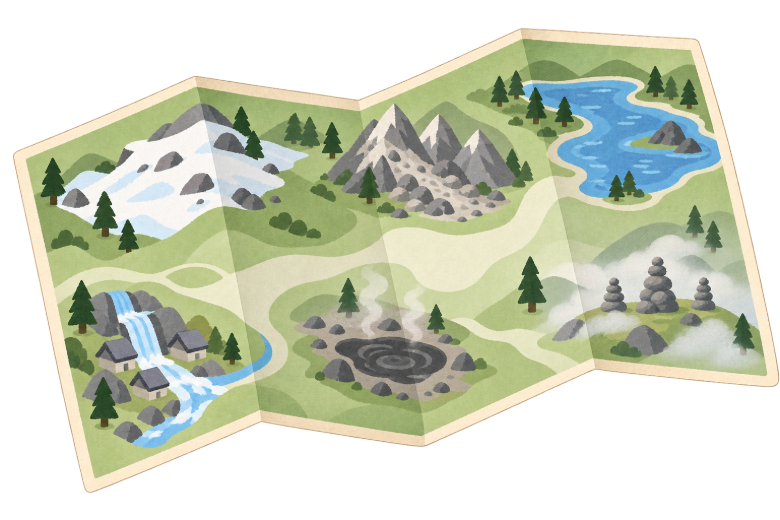
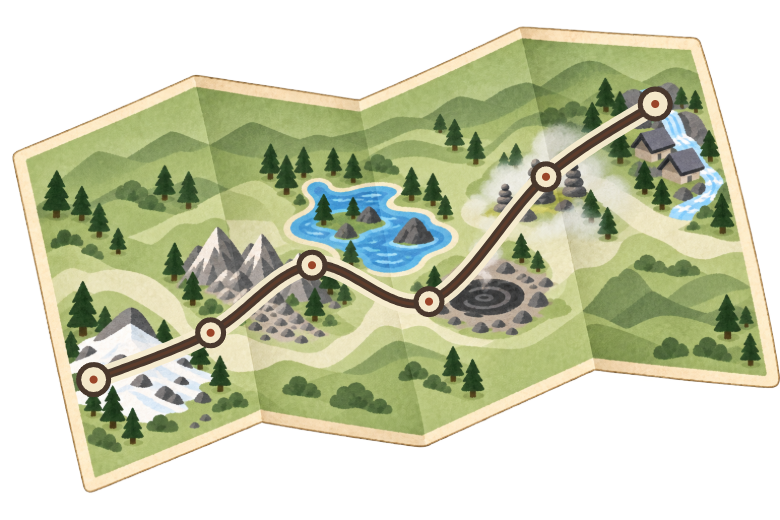
fix: bake curved POI routes into stage maps

diff --git a/src/visuals.js b/src/visuals.js
@@ -141,24 +141,12 @@ const POI=[
 function poiIndex(stage,seg){const row=POI[stage]||POI[0];return Math.max(0,Math.min((seg||1)-1,row.length-1))}
 function poiName(stage,seg){const row=POI[stage]||POI[0];return row[poiIndex(stage,seg)][0]}
 function assetImage(asset){const root=asset.startsWith('scene/')?SPRITE_ROOT:asset.startsWith('backgrounds/')?'assets/':'';return `<img class="scene-bg" src="${root+asset}" alt="">`}
-const ROUTE_SHAPES=[
- [[.08,.68],[.20,.57],[.17,.46],[.38,.40],[.45,.28],[.67,.25],[.76,.13],[.93,.06]],
- [[.08,.68],[.28,.61],[.18,.50],[.43,.45],[.34,.33],[.61,.28],[.75,.18],[.93,.06]],
- [[.08,.68],[.17,.53],[.36,.58],[.48,.43],[.43,.29],[.68,.31],[.82,.18],[.93,.06]],
- [[.08,.68],[.25,.62],[.35,.48],[.27,.36],[.53,.39],[.66,.25],[.82,.22],[.93,.06]],
- [[.08,.68],[.23,.55],[.41,.57],[.36,.43],[.58,.35],[.55,.23],[.77,.16],[.93,.06]],
- [[.08,.68],[.14,.49],[.33,.44],[.47,.52],[.59,.34],[.73,.30],[.79,.14],[.93,.06]],
- [[.08,.68],[.27,.65],[.23,.49],[.45,.52],[.57,.38],[.52,.24],[.77,.25],[.93,.06]],
- [[.08,.68],[.19,.60],[.36,.63],[.47,.45],[.63,.48],[.70,.29],[.86,.20],[.93,.06]]
-];
-function routePoint(points,t){const seg=[];let total=0;for(let i=1;i<points.length;i++){const a=points[i-1],b=points[i],len=Math.hypot(b[0]-a[0],b[1]-a[1]);seg.push(len);total+=len}let left=t*total;for(let i=0;i<seg.length;i++){if(left<=seg[i]){const q=seg[i]?left/seg[i]:0,a=points[i],b=points[i+1];return[a[0]+(b[0]-a[0])*q,a[1]+(b[1]-a[1])*q]}left-=seg[i]}return points[points.length-1]}
-function routeOverlay(stage,total,done){const c=document.createElement('canvas');c.width=780;c.height=520;const g=c.getContext('2d'),pts=ROUTE_SHAPES[stage%ROUTE_SHAPES.length];
- const xy=p=>[p[0]*c.width,p[1]*c.height],draw=(progress)=>{const p0=xy(pts[0]);g.beginPath();g.moveTo(...p0);if(progress>=1){for(let i=1;i<pts.length;i++)g.lineTo(...xy(pts[i]));return}const stops=120;for(let i=1;i<=stops;i++){const q=i/stops;if(q>progress)break;g.lineTo(...xy(routePoint(pts,q)))}};
- g.lineCap='round';g.lineJoin='round';draw(1);g.strokeStyle='rgba(250,244,224,.96)';g.lineWidth=18;g.stroke();g.setLineDash([18,12]);draw(1);g.strokeStyle='#3F382F';g.lineWidth=7;g.stroke();g.setLineDash([]);
- if(done>0){draw(Math.min(1,done/total));g.strokeStyle='#A33E22';g.lineWidth=9;g.stroke()}
- for(let i=0;i<total;i++){const p=routePoint(pts,(i+1)/(total+1)),[x,y]=xy(p),passed=i<done,current=i===done;g.beginPath();g.arc(x,y,current?14:passed?12:10,0,Math.PI*2);g.fillStyle=passed?'#A33E22':current?'#E8B44F':'#F8F0DD';g.fill();g.strokeStyle='#302720';g.lineWidth=5;g.stroke()}
- return `<img class="route-overlay" src="${c.toDataURL('image/png')}" alt="" data-stage="${stage+1}" data-events="${total}" data-done="${done}">`}
-function trekScene(background,label,weather){const t=TAPPE[S.tappa],route=routeOverlay(S.tappa,t.terr.length,Math.min(S.seg,t.terr.length)),moving=!!S.walking;return `<div class="scene raster-scene trek-scene wx-${weather||'sole'}" role="img" aria-label="${esc(label||'')}">${background}<span class="stage-map"><img class="stage-map-bg" src="assets/maps/stage-map-${S.tappa+1}.png" alt="Mappa illustrata della tappa">${route}</span><span class="map-hiker ${moving?'is-walking':'is-still'}">${poseSprite(moving?'walk':'stand',moving?'Escursionista in cammino':'Escursionista al punto di interesse')}</span>${weatherLayer(weather)}</div>`}
+function routeOverlay(stage,total,done){const c=document.createElement('canvas');c.width=780;c.height=520;const g=c.getContext('2d'),samples=sampleMapRoute(stage,40),points=MAP_ROUTE_POINTS[stage%MAP_ROUTE_POINTS.length];
+ const completed=Math.max(0,Math.min(total,done)),progress=total>1?Math.max(0,(completed-1)/(total-1)):0,last=Math.round(progress*(samples.length-1));
+ if(completed>1){g.beginPath();for(let i=0;i<=last;i++){const p=samples[i],x=p[0]*c.width,y=p[1]*c.height;i?g.lineTo(x,y):g.moveTo(x,y)}g.lineCap='round';g.lineJoin='round';g.strokeStyle='#A33E22';g.lineWidth=10;g.stroke()}
+ if(completed>0){const p=points[Math.min(completed-1,points.length-1)],x=p[0]*c.width,y=p[1]*c.height;g.beginPath();g.arc(x,y,15,0,Math.PI*2);g.fillStyle='#E1A640';g.fill();g.strokeStyle='#49382D';g.lineWidth=5;g.stroke()}
+ return `<img class="route-progress" src="${c.toDataURL('image/png')}" alt="" data-stage="${stage+1}" data-events="${total}" data-done="${done}">`}
+function trekScene(background,label,weather){const t=TAPPE[S.tappa],route=routeOverlay(S.tappa,t.terr.length,Math.min(S.seg,t.terr.length)),moving=!!S.walking;return `<div class="scene raster-scene trek-scene wx-${weather||'sole'}" role="img" aria-label="${esc(label||'')}">${background}<span class="stage-map"><img class="stage-map-bg" src="assets/maps/stage-map-${S.tappa+1}.png" alt="Mappa illustrata della tappa">${route}<span class="map-hiker ${moving?'is-walking':'is-still'}">${poseSprite(moving?'walk':'stand',moving?'Escursionista in cammino':'Escursionista al punto di interesse')}</span></span>${weatherLayer(weather)}</div>`}
 function sceneMode(){const ev=S.current;if(!ev)return null;if(ev.id==='traversataLago')return 'lago';const k=eventCard(ev);return k==='i_acqua'&&/guado|torrent|ruscell|fium|corrente/i.test((ev.title||'')+' '+(typeof ev.text==='string'?ev.text:''))?'guado':null}
 const TERR_SCENE={valle:0,betulle:1,torbiera:2,lago:3,altopiano:4,passo:5,gola:6};
 function scene(t){const start=S.tappa===0&&S.seg<=1&&S.current&&['treno','bilancia','stazioneArrivo'].includes(S.current.id);const row=POI[S.tappa]||POI[0],entry=start?['Lavvuby — Il primo segnavia','scene/trail-station.png']:row[poiIndex(S.tappa,S.seg)];return trekScene(assetImage(entry[1]),entry[0],S.wx)}

diff --git a/styles.css b/styles.css
@@ -142,11 +142,12 @@ main.flush{padding-top:0}
 .raster-scene .scene-bg{position:absolute;inset:0;width:100%!important;height:100%!important}
 .raster-scene img.scene-bg{object-fit:cover}
 .raster-scene .pose-sprite{position:absolute;z-index:1;left:37%;bottom:20%;width:26%!important;height:57%!important;filter:drop-shadow(1px 3px 1px rgba(46,38,32,.25))}
+.trek-scene{aspect-ratio:390/244}
 .trek-scene .scene-bg{object-fit:cover}
-.stage-map{position:absolute;z-index:2;right:5%;bottom:27%;width:61%;height:49%;filter:drop-shadow(2px 4px 3px rgba(35,28,20,.34));pointer-events:none}
-.stage-map-bg,.stage-map .route-overlay{position:absolute;inset:0;width:100%;height:100%;object-fit:contain}
-.stage-map .route-overlay{z-index:2;pointer-events:none}
-.map-hiker{position:absolute;z-index:3;right:1%;bottom:32%;width:17%;height:43%;transform:scaleX(-1);transform-origin:center;filter:drop-shadow(1px 2px 1px rgba(46,38,32,.36));pointer-events:none}
+.stage-map{position:absolute;z-index:2;right:4px;bottom:73px;width:57%;aspect-ratio:780/520;filter:drop-shadow(2px 4px 3px rgba(35,28,20,.34));pointer-events:none}
+.stage-map-bg,.stage-map .route-progress{position:absolute;inset:0;width:100%;height:100%;object-fit:contain}
+.stage-map .route-progress{z-index:2;pointer-events:none}
+.map-hiker{position:absolute;z-index:3;right:0;bottom:0;width:26%;height:86%;transform:scaleX(-1);transform-origin:center;filter:drop-shadow(1px 2px 1px rgba(46,38,32,.36));pointer-events:none}
 .map-hiker .pose-sprite{position:relative;left:auto;bottom:auto;width:100%!important;height:100%!important;filter:none}
 .raster-scene .pose-sit{left:39%;bottom:19%;width:23%!important;height:48%!important}
 .raster-scene .pose-victory{left:38%;bottom:19%;width:24%!important;height:56%!important}

diff --git a/src/map-routes.js b/src/map-routes.js
@@ -1,0 +1,28 @@
+/* Curve delle otto cartine: i sei punti coincidono con i landmark disegnati. */
+globalThis.MAP_ROUTE_POINTS=Object.freeze([
+ [[.13,.74],[.27,.61],[.41,.67],[.54,.47],[.69,.35],[.84,.19]],
+ [[.13,.71],[.27,.57],[.42,.62],[.56,.43],[.71,.36],[.84,.18]],
+ [[.12,.73],[.27,.64],[.40,.51],[.55,.58],[.70,.34],[.84,.20]],
+ [[.13,.70],[.29,.61],[.41,.43],[.55,.50],[.70,.31],[.84,.18]],
+ [[.12,.72],[.26,.55],[.42,.63],[.56,.45],[.71,.39],[.84,.18]],
+ [[.12,.71],[.28,.63],[.41,.47],[.56,.55],[.70,.32],[.84,.18]],
+ [[.13,.72],[.27,.58],[.42,.49],[.56,.35],[.71,.42],[.84,.18]],
+ [[.12,.76],[.27,.62],[.41,.67],[.55,.48],[.70,.37],[.84,.19]]
+]);
+
+globalThis.sampleMapRoute=function(stage,stepsPerSegment=32){
+ const points=MAP_ROUTE_POINTS[stage%MAP_ROUTE_POINTS.length],out=[];
+ const at=i=>points[Math.max(0,Math.min(points.length-1,i))];
+ for(let i=0;i<points.length-1;i++){
+  const p0=at(i-1),p1=at(i),p2=at(i+1),p3=at(i+2);
+  for(let step=0;step<stepsPerSegment;step++){
+   const t=step/stepsPerSegment,t2=t*t,t3=t2*t;
+   out.push([
+    .5*((2*p1[0])+(-p0[0]+p2[0])*t+(2*p0[0]-5*p1[0]+4*p2[0]-p3[0])*t2+(-p0[0]+3*p1[0]-3*p2[0]+p3[0])*t3),
+    .5*((2*p1[1])+(-p0[1]+p2[1])*t+(2*p0[1]-5*p1[1]+4*p2[1]-p3[1])*t2+(-p0[1]+3*p1[1]-3*p2[1]+p3[1])*t3)
+   ]);
+  }
+ }
+ out.push(points[points.length-1]);
+ return out;
+};

diff --git a/sw.js b/sw.js
@@ -30,7 +30,7 @@ const MAPS=Array.from({length:8},(_,i)=>`./assets/maps/stage-map-${i+1}.png`);
 const PAPERS=Array.from({length:8},(_,stage)=>Array.from({length:4},(_,wear)=>`./assets/paper/paper-stage-${stage+1}-${wear+1}.jpg`)).flat();
 const CORE=[
  './','./index.html','./styles.css','./manifest.webmanifest',
- './src/config.js','./src/data.js','./src/state.js','./src/content.js','./src/game.js',
+ './src/config.js','./src/data.js','./src/state.js','./src/content.js','./src/game.js','./src/map-routes.js',
  './src/visuals.js','./src/home.js','./src/bootstrap.js',
  './assets/art/trail-scenes.png','./assets/art/home-scenes.png',...SPRITES,...BACKGROUNDS,...MAPS,...PAPERS,
  './icons/icon-192.png','./icons/icon-512.png','./icons/maskable-192.png',

diff --git a/index.html b/index.html
@@ -20,6 +20,7 @@
 <script defer src="src/state.js"></script>
 <script defer src="src/content.js"></script>
 <script defer src="src/game.js"></script>
+<script defer src="src/map-routes.js"></script>
 <script defer src="src/visuals.js"></script>
 <script defer src="src/home.js"></script>
 <script defer src="src/bootstrap.js"></script>

diff --git a/src/config.js b/src/config.js
@@ -1,5 +1,5 @@
 globalThis.GAME_CONFIG=Object.freeze({
  name:'Blisterborn',
- version:'0.1.23',
+ version:'0.1.24',
  storageKey:'blisterlands'
 });

diff --git a/README.md b/README.md
@@ -28,9 +28,9 @@ GitHub Pages può pubblicare direttamente la radice del branch `main`. Il servic
 
 ## Versione
 
-Prototipo `0.1.23`.
+Prototipo `0.1.24`.
 
-Il personaggio conserva il protagonista scelto e usa una vera animazione alternativa quando porta i bastoncini, impugnati e sincronizzati col passo. I colori di vestiti e zaino restano parte del disegno del protagonista; i quattro marchi conservano gli emblemi raster nel negozio e nel catalogo. Le otto tratte dispongono di 48 POI nominati e di 48 sfondi distinti; arrivi serali, mattine dopo il rifugio o la tenda e traguardo di Njalla hanno scene dedicate. Ogni tappa ha inoltre una mappa piegata semplificata con percorso progressivo e quattro livelli di usura raster del taccuino. Ventisette paesaggi specifici restano disponibili per futuri sfondi legati agli imprevisti.
+Il personaggio conserva il protagonista scelto e usa una vera animazione alternativa quando porta i bastoncini, impugnati e sincronizzati col passo. I colori di vestiti e zaino restano parte del disegno del protagonista; i quattro marchi conservano gli emblemi raster nel negozio e nel catalogo. Le otto tratte dispongono di 48 POI nominati e di 48 sfondi distinti; arrivi serali, mattine dopo il rifugio o la tenda e traguardo di Njalla hanno scene dedicate. Ogni tappa ha inoltre una mappa piegata semplificata con una curva incorporata nel raster e coerente con i sei landmark; l'avanzamento colora la stessa curva. Il taccuino ha quattro livelli di usura raster per tappa. Ventisette paesaggi specifici restano disponibili per futuri sfondi legati agli imprevisti.
 
 I raster destinati al gioco sono ottimizzati in tavolozza durante la generazione degli sprite, per mantenere più leggeri pubblicazione, cache offline e aggiornamenti della PWA.
 

diff --git a/docs/README.md b/docs/README.md
@@ -8,7 +8,7 @@ Questa cartella raccoglie le specifiche di sviluppo versionate insieme al gioco.
 - `registro-eventi.md`: inventario corrente dei 439 eventi presenti nel prototipo.
 - `documento-di-progetto.md`: visione del gioco e cronologia delle decisioni. Non tutti i numeri descritti sono ancora correnti.
 
-## Stato del prototipo 0.1.23
+## Stato del prototipo 0.1.24
 
 ### Implementato
 
@@ -18,6 +18,7 @@ Questa cartella raccoglie le specifiche di sviluppo versionate insieme al gioco.
 - Catalogo iniziale di 51 prodotti con quattro marchi, usura, qualità, garanzie e ordini.
 - Due cicli di camminata per protagonista, senza bastoncini o con bastoncini realmente impugnati; emblemi raster dei quattro marchi.
 - Ventisette paesaggi dedicati collegati alle carte di luogo, oltre ai fondali generici per terreno e alle condizioni atmosferiche animate.
+- Otto cartine piegate con percorsi curvi incorporati nei raster, sei POI coerenti con i landmark e avanzamento colorato sulla stessa traccia.
 - Raster di gioco compressi senza variazioni di risoluzione per velocizzare deploy, prima apertura e aggiornamento offline.
 - Progressione, abilità, diario, timbri e quattro protagonisti.
 - PWA installabile con supporto offline.

diff --git a/docs/database-equipaggiamento.md b/docs/database-equipaggiamento.md
@@ -1,6 +1,6 @@
 # Database equipaggiamento
 
-> **Stato:** specifica implementata nel prototipo 0.1.23 per il catalogo iniziale di 51 prodotti. La tabella estesa successiva descrive invece categorie previste per versioni future.
+> **Stato:** specifica implementata nel prototipo 0.1.24 per il catalogo iniziale di 51 prodotti. La tabella estesa successiva descrive invece categorie previste per versioni future.
 
 Ogni oggetto ha quattro statistiche: peso, comfort, resistenza, prezzo. Ogni marchio ha una linea classica e una ultralight. Le statistiche numeriche sono da definire in fase di bilanciamento.
 

diff --git a/docs/registro-eventi.md b/docs/registro-eventi.md
@@ -1,6 +1,6 @@
 # Registro eventi
 
-> **Stato:** registro implementato nel prototipo 0.1.23.
+> **Stato:** registro implementato nel prototipo 0.1.24.
 
 Avanzamento verso i 650 contenuti della Via delle Renne: 439 eventi scritti. Ogni riga è un evento già presente nel prototipo.
 
